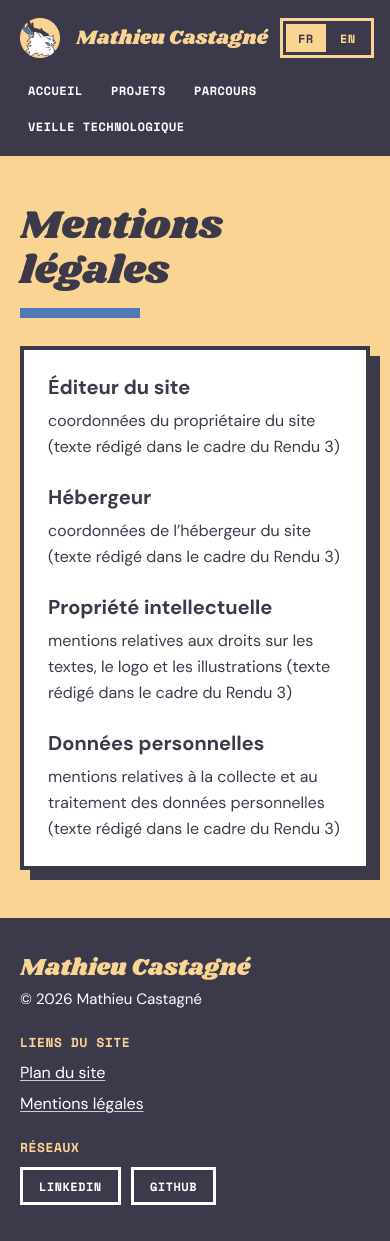
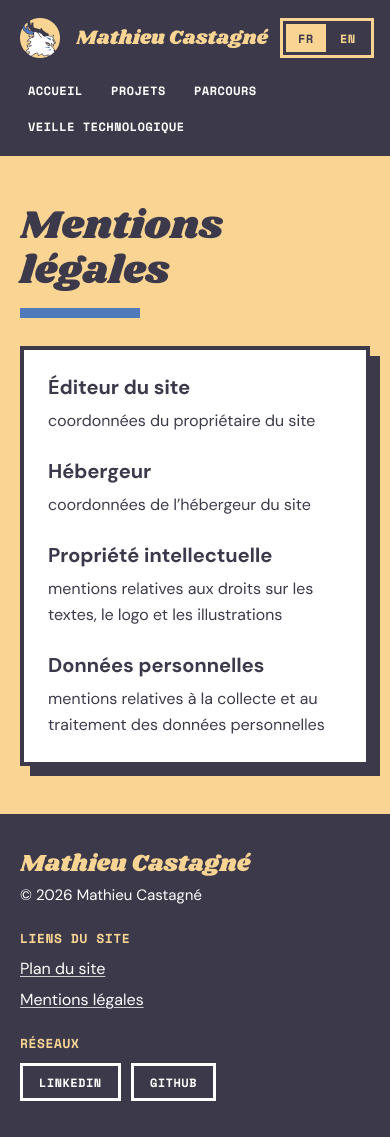
Ajout de la partie 5 de la charte et correction des maquettes Mentions légales

diff --git a/documentation/charte.md b/documentation/charte.md
@@ -155,22 +155,187 @@ Accessibilité :
 
 ## 4. Maquettage responsive de chaque page
 
+## 4. Maquettage responsive de chaque page
+
+Les maquettes ont été réalisées avec Figma, en deux étapes : un wireframe en niveaux de gris pour fixer la structure de chaque page, puis une maquette finale qui applique la charte. Chaque page est présentée en version ordinateur (1440 px de large) et en version mobile (390 px de large). Les pages Projet AP3 et Projet AP4 partagent la même mise en page.
+
+Le fichier de travail est consultable dans Figma : [CCI-SIO26-Portfolio-CastagneMathieu](https://www.figma.com/design/gxz28leTO9DOgBRwYq32k5/CCI-SIO26-Portfolio-CastagneMathieu).
+
+Passage de l’ordinateur au mobile :
+
+- les grilles de cartes passent de deux colonnes à une seule ;
+- la barre de navigation passe sur deux lignes ;
+- les boutons de la page d’accueil s’empilent et prennent toute la largeur ;
+- les titres réduisent selon les tailles indiquées en partie 3.2.
+
+Les versions mobiles les plus longues sont découpées en colonnes, à lire de gauche à droite.
+
+<div style="page-break-after:always"></div>
+
 ### 4.1. Accueil
+
+En-tête, zone d’accueil sur fond bleu avec le nom, la présentation et deux boutons, logo animé au centre de l’arc-en-ciel, rayures, pied de page.
+
+#### Wireframe
+
+<img src="medias/wireframe_accueil_ordinateur.png" alt="Wireframe de la page Accueil, version ordinateur" style="max-height: 23cm;">
 
 #### Version ordinateur
 
+<img src="medias/maquette_accueil_ordinateur.png" alt="Maquette de la page Accueil, version ordinateur" style="max-height: 23cm;">
+
 #### Version mobile
+
+<img src="medias/maquette_accueil_mobile.png" alt="Maquette de la page Accueil, version mobile" style="max-height: 23cm;">
+
+<div style="page-break-after:always"></div>
 
 ### 4.2. Parcours
 
+Titre, photo dans un cadre en arche et introduction, frise chronologique, cartes « Expériences professionnelles » et « Formations », carte « Engagement associatif ».
+
+#### Wireframe
+
+<img src="medias/wireframe_parcours_ordinateur.png" alt="Wireframe de la page Parcours, version ordinateur" style="max-height: 23cm;">
+
+#### Version ordinateur
+
+<img src="medias/maquette_parcours_ordinateur.png" alt="Maquette de la page Parcours, version ordinateur" style="max-height: 23cm;">
+
+#### Version mobile
+
+<img src="medias/maquette_parcours_mobile_colonnes.png" alt="Maquette de la page Parcours, version mobile, découpée en colonnes" style="max-height: 23cm;">
+
+<div style="page-break-after:always"></div>
+
 ### 4.3. Projets
+
+Titre, introduction, puis quatre fiches de dossier, chacune avec son image, son tampon de statut, son titre et sa présentation.
+
+#### Wireframe
+
+<img src="medias/wireframe_projets_ordinateur.png" alt="Wireframe de la page Projets, version ordinateur" style="max-height: 23cm;">
+
+#### Version ordinateur
+
+<img src="medias/maquette_projets_ordinateur.png" alt="Maquette de la page Projets, version ordinateur" style="max-height: 23cm;">
+
+#### Version mobile
+
+<img src="medias/maquette_projets_mobile_colonnes.png" alt="Maquette de la page Projets, version mobile, découpée en colonnes" style="max-height: 23cm;">
+
+<div style="page-break-after:always"></div>
 
 ### 4.4. Projets AP3 et AP4
 
+Gabarit commun aux deux projets : lien de retour, titre, encart, quatre fiches d’information et bouton de retour vers la page Projets.
+
+#### Wireframe
+
+<img src="medias/wireframe_projet_ap_ordinateur.png" alt="Wireframe des pages Projet AP3 et AP4, version ordinateur" style="max-height: 23cm;">
+
+#### Version ordinateur
+
+<img src="medias/maquette_projet_ap_ordinateur.png" alt="Maquette des pages Projet AP3 et AP4, version ordinateur" style="max-height: 23cm;">
+
+#### Version mobile
+
+<img src="medias/maquette_projet_ap_mobile.png" alt="Maquette des pages Projet AP3 et AP4, version mobile" style="max-height: 23cm;">
+
+<div style="page-break-after:always"></div>
+
 ### 4.5. Veille technologique
+
+Introduction sur fond anthracite avec la problématique et le motif de cible, cartes « Pourquoi ce sujet » et « Méthode de veille », synthèse affichée dans un écran, capture du canal Telegram.
+
+#### Wireframe
+
+<img src="medias/wireframe_veille_ordinateur.png" alt="Wireframe de la page Veille technologique, version ordinateur" style="max-height: 23cm;">
+
+#### Version ordinateur
+
+<img src="medias/maquette_veille_ordinateur.png" alt="Maquette de la page Veille technologique, version ordinateur" style="max-height: 23cm;">
+
+#### Version mobile
+
+<img src="medias/maquette_veille_mobile_colonnes.png" alt="Maquette de la page Veille technologique, version mobile, découpée en colonnes" style="max-height: 23cm;">
+
+<div style="page-break-after:always"></div>
 
 ### 4.6. Mentions légales
 
+Titre et carte réunissant les quatre rubriques.
+
+#### Wireframe
+
+<img src="medias/wireframe_mentions_legales_ordinateur.png" alt="Wireframe de la page Mentions légales, version ordinateur" style="max-height: 23cm;">
+
+#### Version ordinateur
+
+<img src="medias/maquette_mentions_legales_ordinateur.png" alt="Maquette de la page Mentions légales, version ordinateur" style="max-height: 23cm;">
+
+#### Version mobile
+
+<img src="medias/maquette_mentions_legales_mobile.png" alt="Maquette de la page Mentions légales, version mobile" style="max-height: 23cm;">
+
+<div style="page-break-after:always"></div>
+
 ### 4.7. Plan du site
 
+Titre et arborescence des pages du site.
+
+#### Wireframe
+
+<img src="medias/wireframe_plan_du_site_ordinateur.png" alt="Wireframe de la page Plan du site, version ordinateur" style="max-height: 23cm;">
+
+#### Version ordinateur
+
+<img src="medias/maquette_plan_du_site_ordinateur.png" alt="Maquette de la page Plan du site, version ordinateur" style="max-height: 23cm;">
+
+#### Version mobile
+
+<img src="medias/maquette_plan_du_site_mobile.png" alt="Maquette de la page Plan du site, version mobile" style="max-height: 23cm;">
+
+<div style="page-break-after:always"></div>
+
 ## 5. Logique de navigation dans le site
+
+## 5. Logique de navigation dans le site
+
+Le site compte huit pages, organisées sur trois niveaux : l’accueil, cinq pages principales, puis les pages de détail des projets AP3 et AP4. Chaque page existe en français et en anglais. Les deux schémas ci-dessous ont été réalisés dans le même fichier Figma que les maquettes.
+
+### 5.1. Schéma de navigation
+
+<img src="medias/schema_navigation.png" alt="Schéma de navigation du site : en-tête et pied de page présents sur toutes les pages, arborescence sur trois niveaux, de l’accueil jusqu’aux pages Projet AP3 et Projet AP4" style="max-height: 23cm;">
+
+**En-tête et pied de page communs.** L’en-tête et le pied de page sont identiques sur toutes les pages. Les quatre rubriques principales sont dans la barre de navigation ; le plan du site et les mentions légales sont dans le pied de page. Depuis n’importe quelle page, le visiteur atteint donc une page principale en un clic, et les pages Projet AP3 et Projet AP4 en deux clics.
+
+**Retour à l’accueil.** Le logo et le nom, à gauche de l’en-tête, ramènent à l’accueil, comme sur la plupart des sites.
+
+**Page en cours.** Dans la barre de navigation, le lien de la page affichée est mis en évidence : fond sable et texte anthracite. Pour les lecteurs d’écran, il porte l’attribut `aria-current="page"`. Sur les pages Projet AP3 et Projet AP4, c’est le lien Projets qui reste en évidence, pour rappeler la rubrique.
+
+**Changement de langue.** Le sélecteur FR / EN affiche la même page dans l’autre langue, sans renvoyer à l’accueil. La langue active est sur fond sable.
+
+**Navigation sur mobile.** Sur téléphone, la barre de navigation passe sur deux lignes au lieu de se cacher derrière un menu : avec seulement quatre liens, toutes les rubriques restent visibles dès l’arrivée sur la page.
+
+**Pages de projet.** Les pages Projet AP3 et Projet AP4 proposent un lien « Retour aux projets » en haut et en bas de page. Le visiteur revient ainsi à la liste sans passer par le bouton Précédent du navigateur.
+
+**Liens externes.** Les liens LinkedIn et GitHub du pied de page s’ouvrent dans le même onglet, pour qu’aucune fenêtre ne s’ouvre sans prévenir le visiteur. Il revient au portfolio avec le bouton Précédent de son navigateur.
+
+**Plan du site.** Le plan du site reprend toute l’arborescence. Il dépanne le visiteur qui ne trouve pas une page et aide les moteurs de recherche à parcourir le site.
+
+**Navigation au clavier.** Un lien d’évitement « Aller au contenu » apparaît au premier appui sur la touche Tab : il permet d’aller directement au contenu, sans parcourir tous les liens de l’en-tête. Comme il reste invisible tant qu’il n’est pas sélectionné, il n’apparaît pas sur les maquettes. L’ordre de tabulation suit l’ordre de lecture : logo, barre de navigation, sélecteur de langue, contenu, puis pied de page.
+
+<div style="page-break-after:always"></div>
+
+### 5.2. Parcours utilisateurs
+
+Trois profils de visiteurs ont guidé l’organisation des pages. Pour chacun, le schéma indique les pages consultées, dans l’ordre, et le lien utilisé à chaque étape.
+
+<img src="medias/parcours_utilisateurs.png" alt="Trois parcours utilisateurs : un recruteur qui consulte les projets puis le parcours, un jury du BTS SIO qui consulte le parcours, la veille puis les projets, et un visiteur anglophone sur mobile qui change de langue et utilise le plan du site" style="max-height: 23cm;">
+
+**Parcours 1, recruteur ou tuteur d’entreprise.** Il dispose de peu de temps. Le bouton principal de l’accueil l’amène directement aux projets, la partie la plus concrète du portfolio. Il consulte ensuite mon parcours, puis trouve mon profil LinkedIn dans le pied de page pour me contacter.
+
+**Parcours 2, jury du BTS SIO.** Il suit l’ordre d’un dossier : parcours, veille technologique, puis projets. Chaque rubrique est accessible depuis la barre de navigation : il n’a jamais besoin de repasser par l’accueil.
+
+**Parcours 3, visiteur anglophone sur mobile.** Le sélecteur de langue le garde sur la page en cours. Le plan du site lui permet d’atteindre directement la page qui l’intéresse, et le logo le ramène à l’accueil. Tous ces liens restent visibles sur un écran de téléphone.
